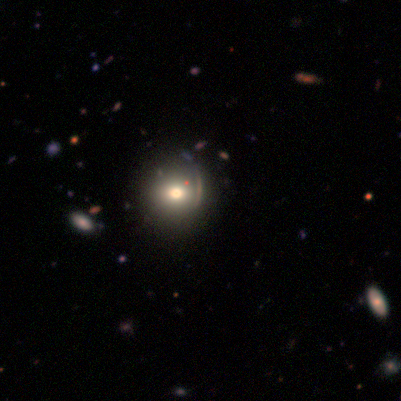
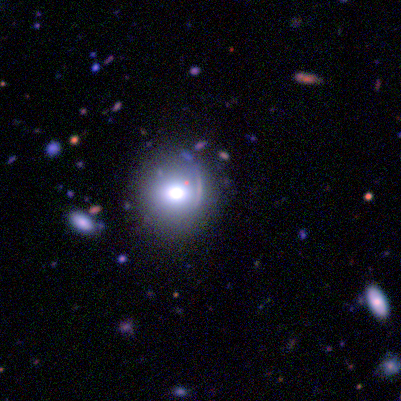
Set CFHTLS default scales to Anu's numbers, read in correct CFHTLS zeropoint (30!) and tweaked PS1 defaults to match. Images are now in flux units, with arbitrary offset to make log10(alpha) come out to be 0+/-2

diff --git a/compose.py b/compose.py
@@ -50,21 +50,23 @@ def compose(argv):
 
     EXAMPLES
     
+        Note the different alpha required, to cope with survey depth!
+    
         CFHTLS:
-          compose.py  -v -s 2.0,1.5,1.0 -z 0.0 -p 2.0,0.03 -m -1.0 \
+          compose.py  -v -s 0.4,0.6,1.7 -z 0.0 -p 1.7,0.09 -m -1.0 \
           -o examples/CFHTLS_27_gri.png \
           examples/CFHTLS_27_i_sci.fits \
           examples/CFHTLS_27_r_sci.fits \
           examples/CFHTLS_27_g_sci.fits
 
-        PS1:
-          compose.py  -v -s 0.8,1.0,1.0 -z 0.0 -p 1.0,0.03 -m -1.0 \
+        PS1 (needs optimizing on a larger image):
+          compose.py  -v -s 0.4,0.6,1.7 -z 0.0 -p 1.7,300.0 -m -1.0 \
           -o examples/H1413+117_10x10arcsec_riz.png \
           examples/H1413+117_10x10arcsec_55377.34051_z_sci.fits \
           examples/H1413+117_10x10arcsec_55665.51546_i_sci.fits \
           examples/H1413+117_10x10arcsec_55664.39704_r_sci.fits
 
-        DES:
+        DES (very experimental - vary alpha first!):
           compose.py -v -s 2.0,1.5,2.5 -z 0.0 -p 2.0,0.04 -m -1.0 \
           -o bullet_gri.cropped.png \
           bullet_i.10.cropped.fits \       
@@ -78,17 +80,18 @@ def compose(argv):
       second or AB maggies.
 
     - Code currently assumes one file per channel, whereas we might want to
-      use N>3 images
-      in combination. N scales would then be required, and the image to
-      channel transformation performed after scaling but before stretching.
-      Masking would need to be done at this point too.
+      use N>3 images in combination.  The image to channel transformation 
+      would be performed after scaling to flux units but before
+      stretching. Masking would need to be done at this point too.
 
-    - Should cope with just two or even one input image file.
+    - Should cope with just two, or even one, input image file(s).
 
     HISTORY
       2012-05-11    started Marshall (Oxford)
       2012-07-??    integrated with wherry.py Sandford (NYU)
-      2012-12-19    defaults set for CFHTLS images Marshall (Adler)
+      2012-12-19    defaults set for CFHTLS images Marshall (Oxford)
+      2013-02-21    defaults set for PS1 images Marshall (Oxford)
+      2013-02-26    experimenting with DES images Hirsch (UCL)
     """
 
     # -------------------------------------------------------------------
@@ -106,8 +109,11 @@ def compose(argv):
 
     outfile = "color.png"
 
-    pars = '2,0.03'
-    scales = 'Auto'
+    # Defaults optimized for CFHTLS...
+    pars = '1.7,0.09'
+    scales = '0.4,0.6,1.7'
+    
+    # More general sensible choices:
     backsub = False
     saturation = 'white'
     offset = 0.0
@@ -160,6 +166,10 @@ def compose(argv):
     Qs,alphas = pars.split(',')
     Q = float(Qs)
     alpha = float(alphas)
+    
+    # Parse channel colour scales:
+    x,y,z = scales.split(',')
+    rscale,gscale,bscale = float(x),float(y),float(z)
 
     # -------------------------------------------------------------------
     # Read in images, calibrated into flux units:
@@ -191,12 +201,6 @@ def compose(argv):
     # -------------------------------------------------------------------
     # Set scales determining color balance in composite:
 
-    if scales == 'Auto':
-        rscale,gscale,bscale = 1.0,1.0,1.0
-    else:
-        x,y,z = scales.split(',')
-        rscale,gscale,bscale = float(x),float(y),float(z)
-    
     rscale,gscale,bscale = humvi.normalize_scales(rscale,gscale,bscale)
     red.set_scale(manually=rscale)
     green.set_scale(manually=gscale)

diff --git a/humvi/io.py b/humvi/io.py
@@ -45,9 +45,10 @@ class channel:
         # Airmass? Gain?
 
         # Compute calibration factor for image pixel values to 
-        # convert them into flux units. The 26 is chosen such that 
-        # Q = 1 gives a sensible image.
-        self.calib = (10**(self.zpt - 26.0)) / self.exptime
+        # convert them into flux units. The 30 is arbitrary, and 
+        # simply determines the absolute value of alpha required 
+        # for a nice image. 
+        self.calib = (10**(self.zpt - 30.0)) / self.exptime
         self.image *= self.calib
         
         return
@@ -55,6 +56,11 @@ class channel:
     def get_origin(self):
         if self.hdr.has_key('ORIGIN'):  
             if self.hdr['ORIGIN'] == 'CFHT':
+                self.origin = 'CFHT'
+            else:
+                self.origin = 'DES'
+        elif self.hdr.has_key('TELESCOP'):  
+            if self.hdr['TELESCOP'] == 'CFHT 3.6m':
                 self.origin = 'CFHT'
             else:
                 self.origin = 'DES'
@@ -69,22 +75,22 @@ class channel:
 
     def get_zeropoint(self):
         if self.origin == 'CFHT':
-            if self.hdr.has_key('PHOT_C'):
-                self.zpt = self.hdr['PHOT_C']
-            elif self.hdr.has_key('MZP_AB'):
+            if self.hdr.has_key('MZP_AB'):
                 self.zpt = self.hdr['MZP_AB']
+            # elif self.hdr.has_key('PHOT_C'):
+            #     self.zpt = self.hdr['PHOT_C']
             else:
-                raise "No zpt header keywords found."    
+                self.zpt = 30.0    
         elif self.origin == 'PS1':
             self.zpt = self.hdr['HIERARCH FPA.ZP']
         elif self.origin == 'DES':
             self.zpt = -self.hdr['FID_ZP']
-        print self.zpt
         return
 
     def get_exptime(self):
         # Here we assume that both CFHT and PS1 provide images with 
-        # pixel values in counts per second... CHECK THIS
+        # pixel values in counts per second... or that the zero point
+        # takes into account the exptime.
         if self.origin == 'CFHT':
             self.exptime = 1.0    
         elif self.origin == 'PS1':
